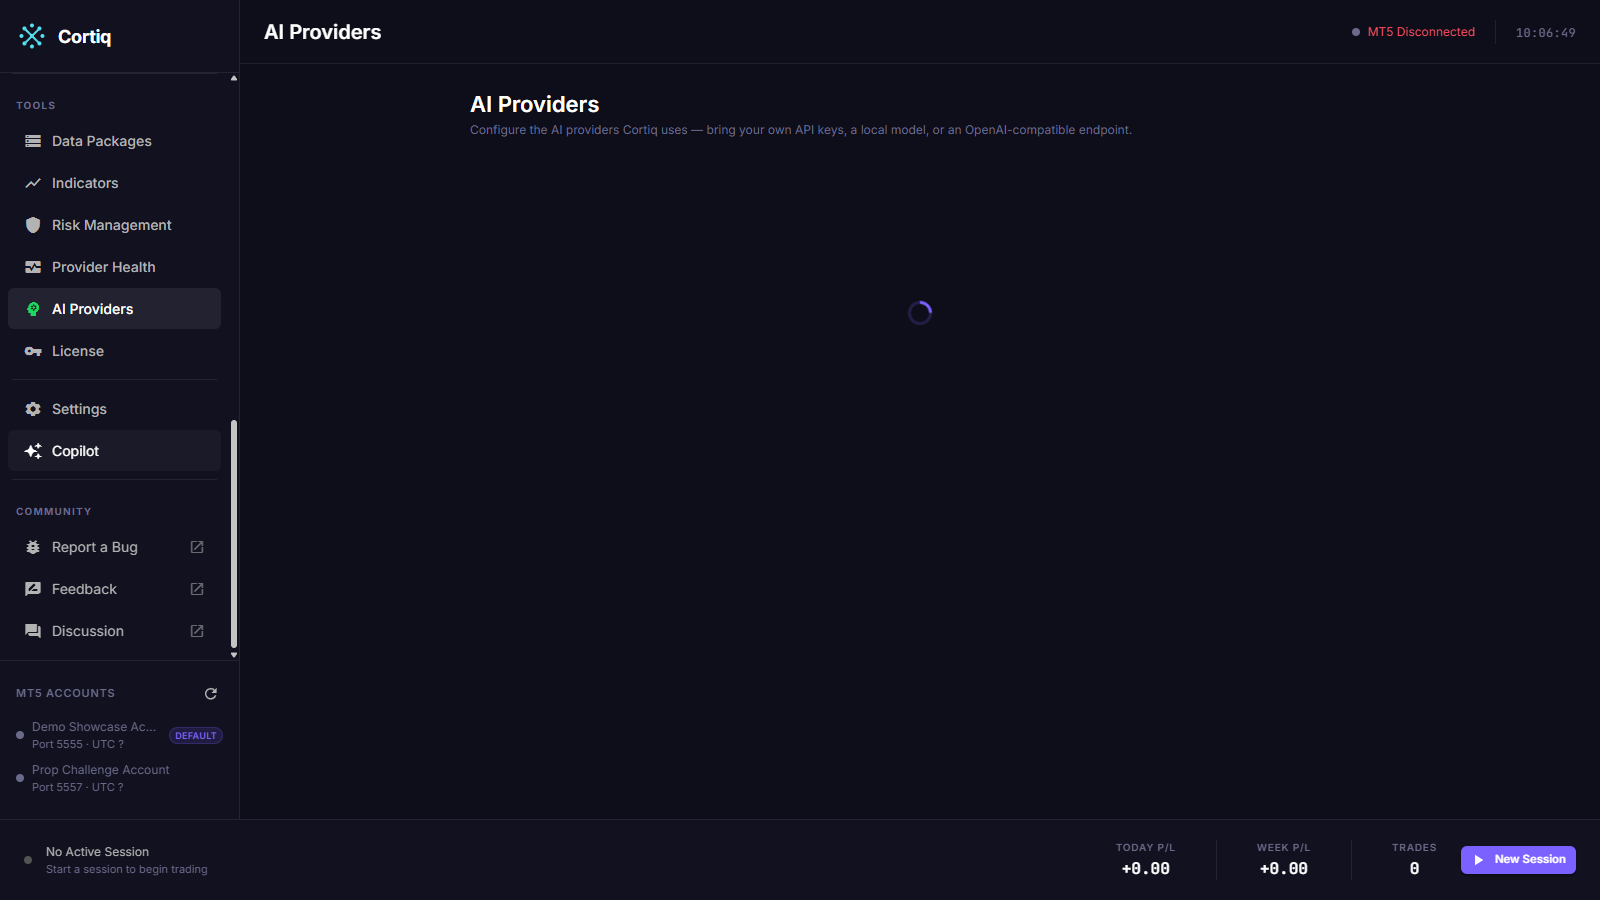
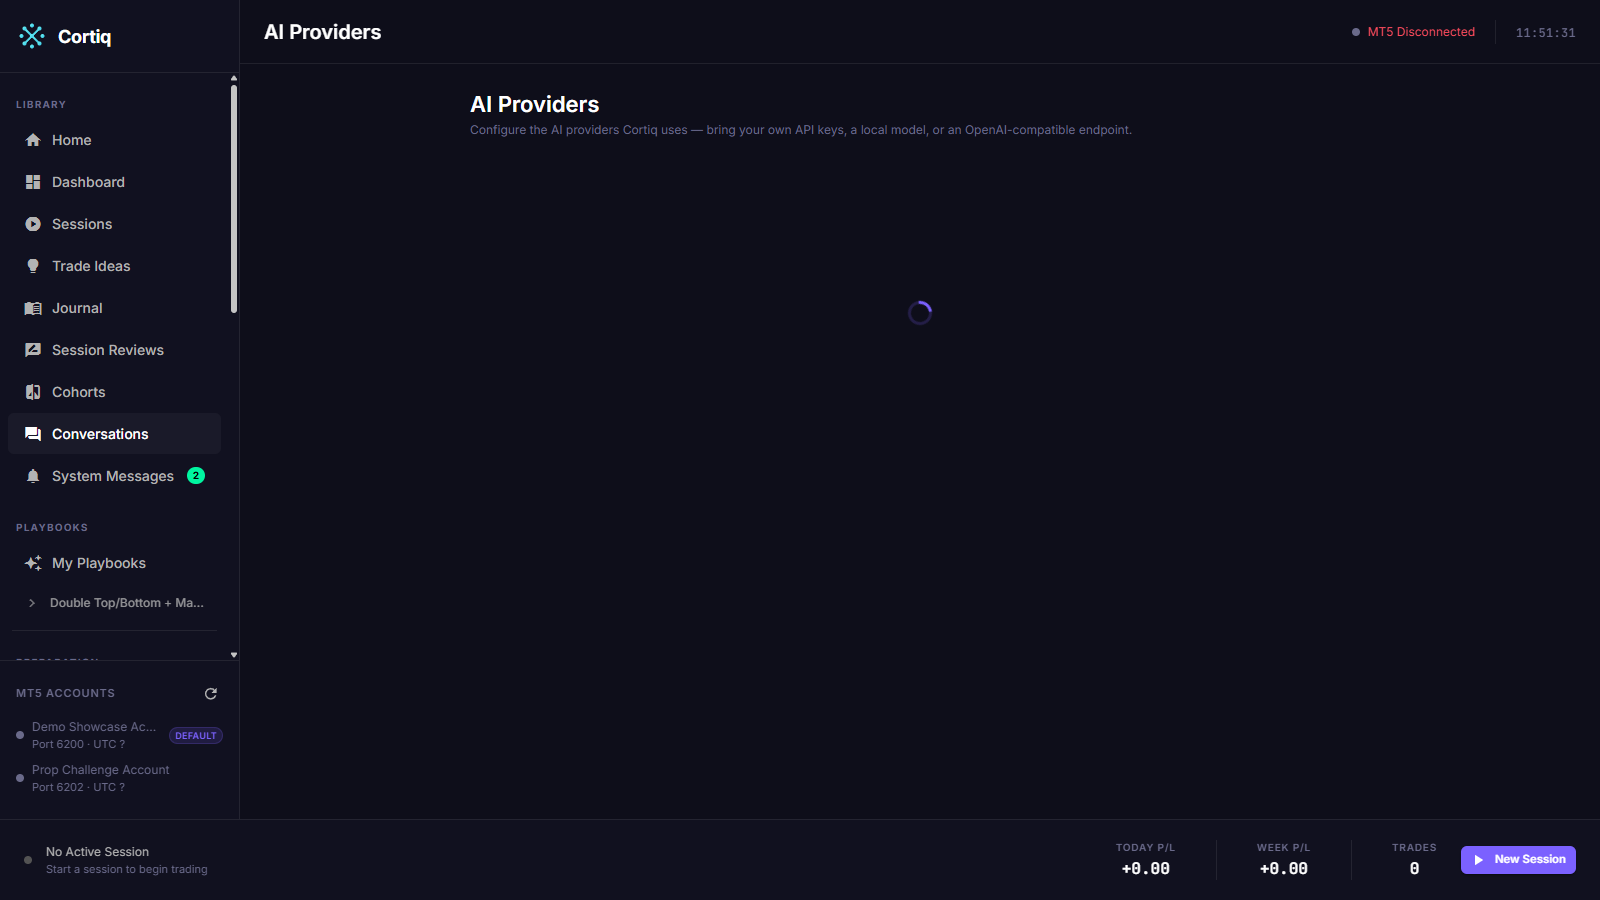
docs: re-capture screenshots (full sidebar, 6200/6201 ports, agent perms) + pricing
Re-capture all 30 app screenshots with the sidebar scrolled to top so the
Library/Playbooks/Preparation groups are visible, demo MT5 ports showing the
documented 6200/6201 + 6202/6203, and the agent-permissions shot showing the
actual grants card instead of the Copilot provider tab. Surface the EUR199 /
2-machine / 14-day-refund pricing on the Getting started prerequisites.

diff --git a/src/content/docs/getting-started.md b/src/content/docs/getting-started.md
@@ -47,7 +47,7 @@ Confirm these before installing:
 
 - Windows 10 or Windows 11.
 - MetaTrader 5 installed on the same machine, for live trading.
-- A Cortiq activation key.
+- A Cortiq activation key — a one-time €199 license that activates up to two machines. See [Licensing & support](licensing-and-support/) for what it includes and the 14-day refund.
 - A way to reach at least one supported AI provider — an API key, a local model endpoint, or a local agent (ACP or CLI) you can authenticate.
 - A clear answer to whether your first run is virtual or live (the section below explains why this matters).
 
